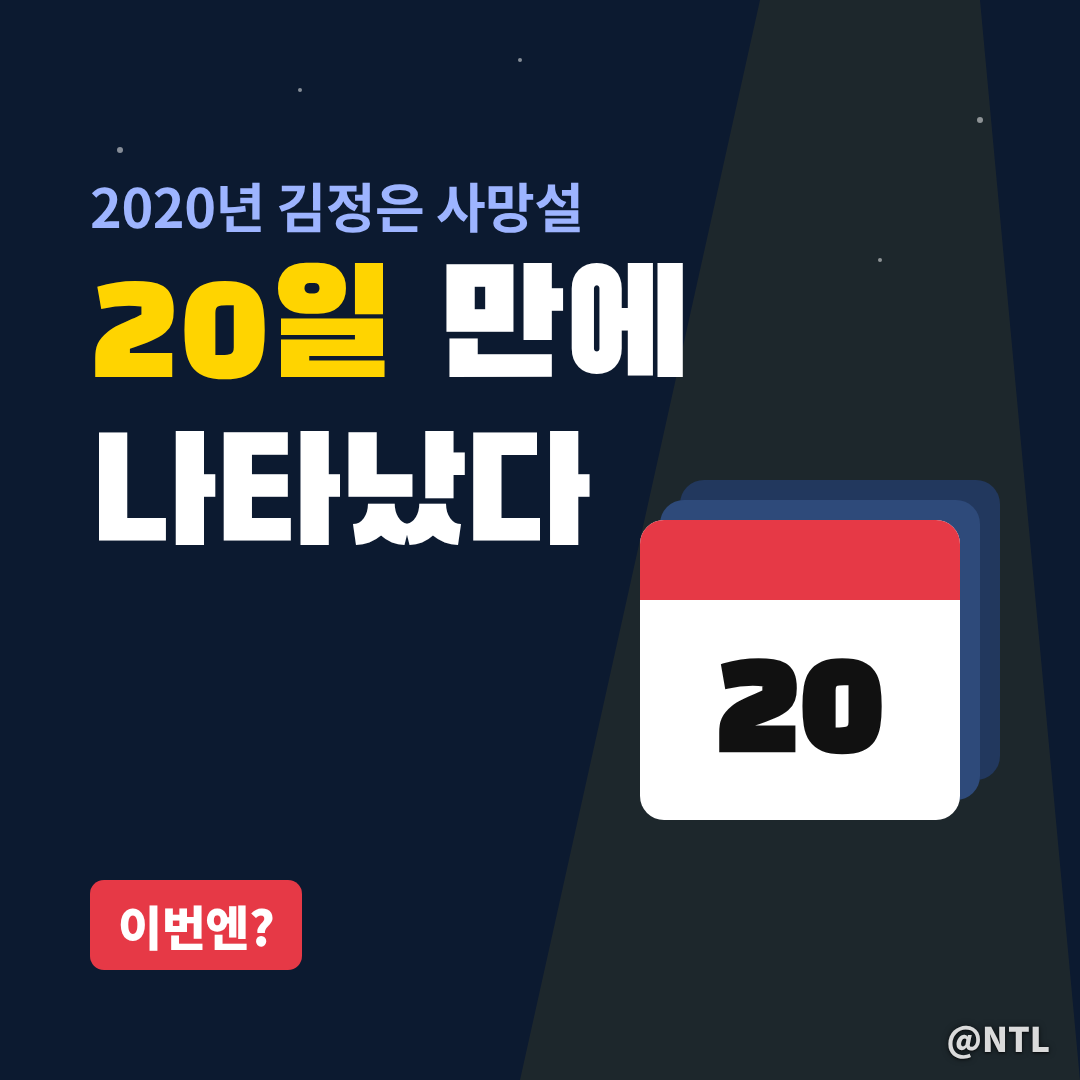
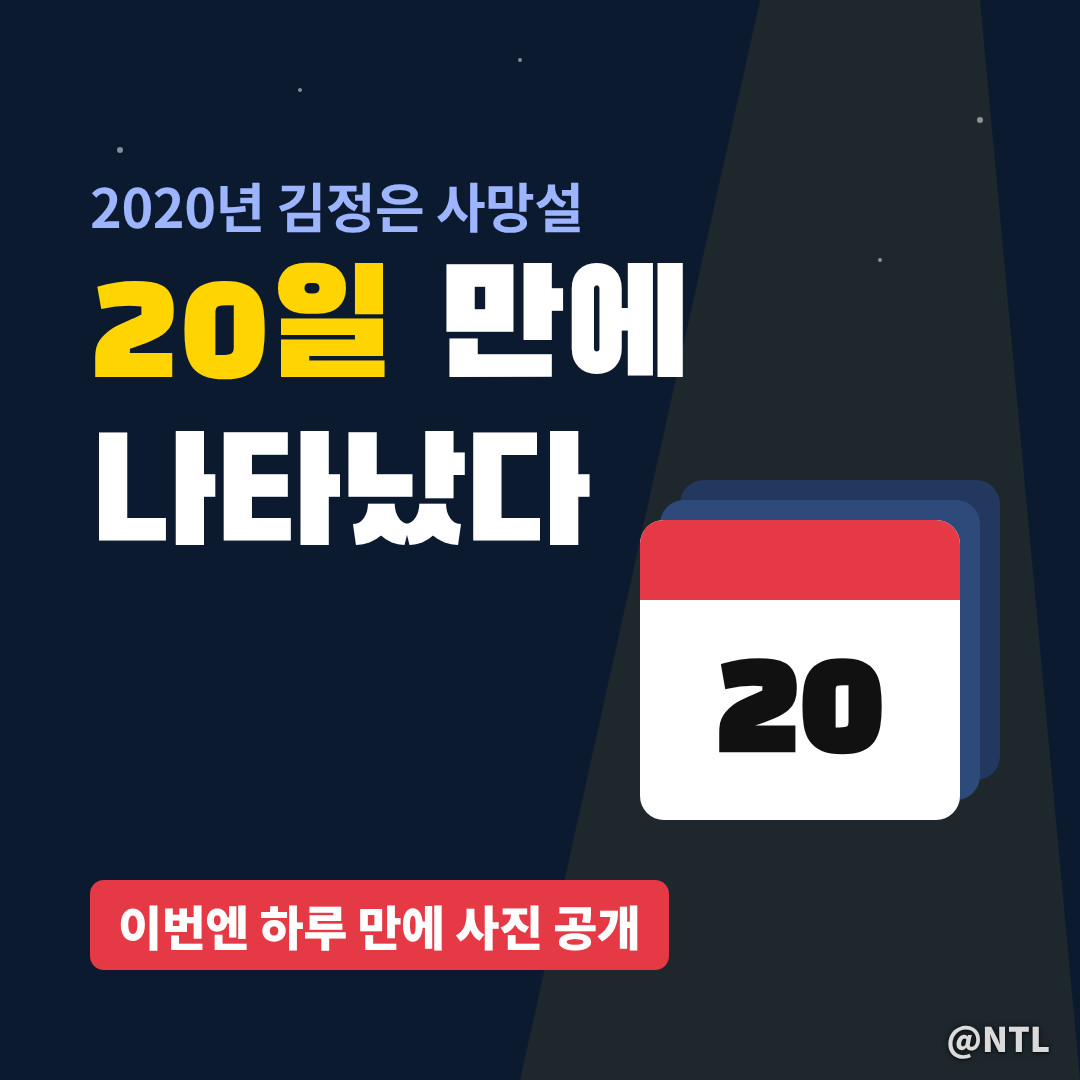
김정은 사망설 썸네일 갱신(코스피 각도), 재작성 시에도 제목·썸네일 함께 전달 규칙
Claude-Session: https://claude.ai/code/session_0112ZDCrfFhJd3enjH3GYsLZ

Changed region(s): [[0.2139, 0.7944, 0.6417, 0.9167]]

diff --git a/output/김정은 사망/thumbs.html b/output/김정은 사망/thumbs.html
@@ -2,21 +2,17 @@
 
 <template id="bg1svg">
 <svg class="bg" viewBox="0 0 1080 1080">
-  <defs><radialGradient id="r1" cx=".75" cy=".55" r=".7"><stop offset="0" stop-color="#4a0d14"/><stop offset="1" stop-color="#0d0a0b"/></radialGradient></defs>
+  <defs><radialGradient id="r1" cx=".7" cy=".6" r=".8"><stop offset="0" stop-color="#3a0b12"/><stop offset="1" stop-color="#0d0a0b"/></radialGradient></defs>
   <rect width="1080" height="1080" fill="url(#r1)"/>
-  <!-- 휴대폰 -->
-  <g transform="translate(640,300) rotate(8)">
-    <rect width="330" height="620" rx="46" fill="#1b1b1f" stroke="#444" stroke-width="8"/>
-    <rect x="22" y="60" width="286" height="500" rx="18" fill="#26262c"/>
-    <rect x="50" y="100" width="230" height="70" rx="16" fill="#e63946"/>
-    <rect x="50" y="190" width="200" height="60" rx="16" fill="#3a3a44"/>
-    <rect x="50" y="270" width="230" height="60" rx="16" fill="#3a3a44"/>
-    <rect x="50" y="350" width="170" height="60" rx="16" fill="#e63946" fill-opacity=".7"/>
-    <rect x="50" y="430" width="220" height="60" rx="16" fill="#3a3a44"/>
+  <g stroke="#fff" stroke-opacity=".06" stroke-width="2"><line x1="0" y1="560" x2="1080" y2="560"/><line x1="0" y1="720" x2="1080" y2="720"/><line x1="0" y1="880" x2="1080" y2="880"/></g>
+  <g fill="#e63946" fill-opacity=".35"><rect x="560" y="600" width="50" height="160"/><rect x="640" y="640" width="50" height="190"/><rect x="720" y="700" width="50" height="170"/><rect x="800" y="760" width="50" height="180"/><rect x="880" y="820" width="50" height="160"/></g>
+  <polyline points="80,760 260,740 420,780 560,750 680,820 800,880 960,960" fill="none" stroke="#ff4d4d" stroke-width="14" stroke-linecap="round" stroke-linejoin="round"/>
+  <polygon points="1020,1000 990,920 930,990" fill="#ff4d4d"/>
+  <g transform="translate(820,110) rotate(10)">
+    <rect width="180" height="320" rx="28" fill="#1b1b1f" stroke="#444" stroke-width="6"/>
+    <rect x="18" y="40" width="144" height="250" rx="12" fill="#26262c"/>
+    <rect x="32" y="62" width="116" height="40" rx="10" fill="#e63946"/><rect x="32" y="116" width="100" height="34" rx="10" fill="#3a3a44"/><rect x="32" y="164" width="116" height="34" rx="10" fill="#3a3a44"/>
   </g>
-  <!-- 말풍선 -->
-  <g fill="#ffffff" fill-opacity=".08"><ellipse cx="560" cy="200" rx="120" ry="60"/><ellipse cx="980" cy="200" rx="90" ry="46"/><ellipse cx="560" cy="960" rx="150" ry="60"/></g>
-  <g font-family="Noto Sans KR" font-weight="900" fill="#e63946" fill-opacity=".85"><text x="900" y="290" font-size="90">!</text><text x="590" y="560" font-size="70" fill="#fff" fill-opacity=".3">?</text></g>
 </svg></template>
 
 <template id="bg2svg">
@@ -57,11 +53,11 @@
 <div class="canvas" data-out="bg3.png" id="b3"></div>
 
 <div class="canvas" data-out="thumb1.png" id="t1">
-  <div class="copy" style="top:180px;right:440px;color:#fff">
-    <div class="sub" style="font-size:54px;color:#ff8787">김정은</div>
-    <div class="headline" style="font-size:160px;margin-top:10px">또<br><span style="color:#e63946">사망설</span></div>
-    <div class="sub" style="margin-top:34px;display:inline-block;background:#fff;color:#111;padding:10px 20px;border-radius:12px;white-space:nowrap">북한은 사진으로 반박</div>
+  <div class="copy" style="top:130px;right:330px;color:#fff">
+    <div class="sub" style="font-size:54px;color:#ff8787">김정은 사망설 탓?</div>
+    <div class="headline" style="font-size:150px;margin-top:10px;white-space:nowrap">코스피<br><span style="color:#ff4d4d">-4.76%</span></div>
   </div>
+  <div class="copy" style="top:560px;right:auto"><span class="tag" style="background:#fff;color:#111;font-size:52px">진짜 원인은 따로 있다</span></div>
 </div>
 
 <div class="canvas" data-out="thumb2.png" id="t2" data-wm="dark">
@@ -77,7 +73,7 @@
     <div class="sub" style="font-size:54px;color:#9db4ff">2020년 김정은 사망설</div>
     <div class="headline" style="font-size:150px;margin-top:10px"><span style="color:#ffd400">20일</span> 만에<br>나타났다</div>
   </div>
-  <div class="copy" style="bottom:110px;right:auto"><span class="tag" style="background:#e63946;color:#fff">이번엔?</span></div>
+  <div class="copy" style="bottom:110px;right:auto"><span class="tag" style="background:#e63946;color:#fff">이번엔 하루 만에 사진 공개</span></div>
 </div>
 
 <script>

diff --git a/CLAUDE.md b/CLAUDE.md
@@ -42,3 +42,4 @@
 - 원고는 그림을 제자리에 배치해(`![설명](fig1_….png)`) `output/<키워드>/post.md` 로 저장하고, `python3 tools/preview.py "output/<키워드>"` 로 미리보기 `post.html`(그림 base64 포함)을 만들고 본문 글자 수를 확인한다. 채팅에도 본문을 보여준다.
 - 본문 문장은 바로 앞뒤 그림을 가리키며 이어지게 쓴다("보시는 것처럼", "타임라인 맨 아래" 등) — 글과 그림이 따로 놀지 않게.
 - 썸네일·배경·본문 그림은 SendUserFile 로 보낸다. 썸네일 문구 3개와 각 썸네일 설명(어떤 레퍼런스 패턴인지)을 함께 적는다.
+- **원고를 다시 쓸 때도 매번 제목 후보 3개 + 추천 제목과 썸네일 3장(내용이 바뀌면 새로 렌더)을 채팅 답변에 함께 넣는다** (사용자 요청).
